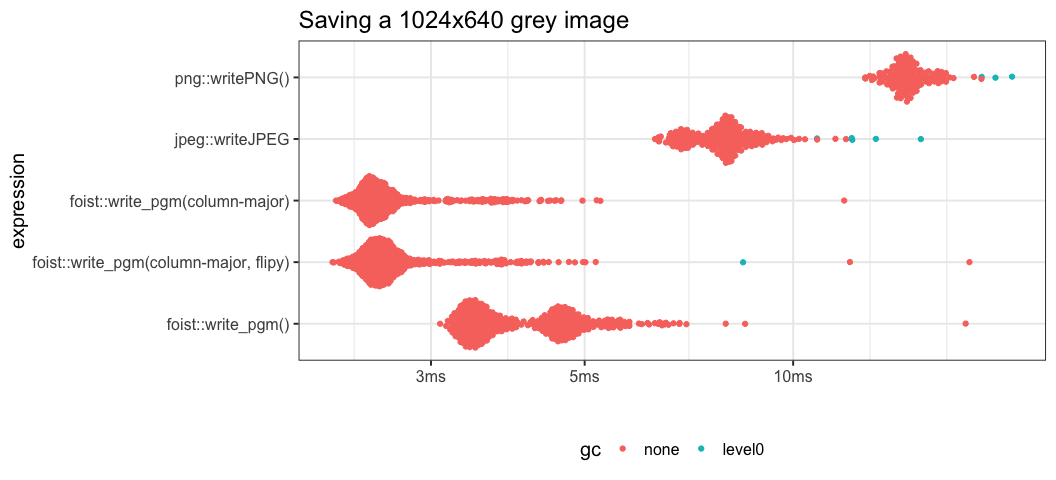
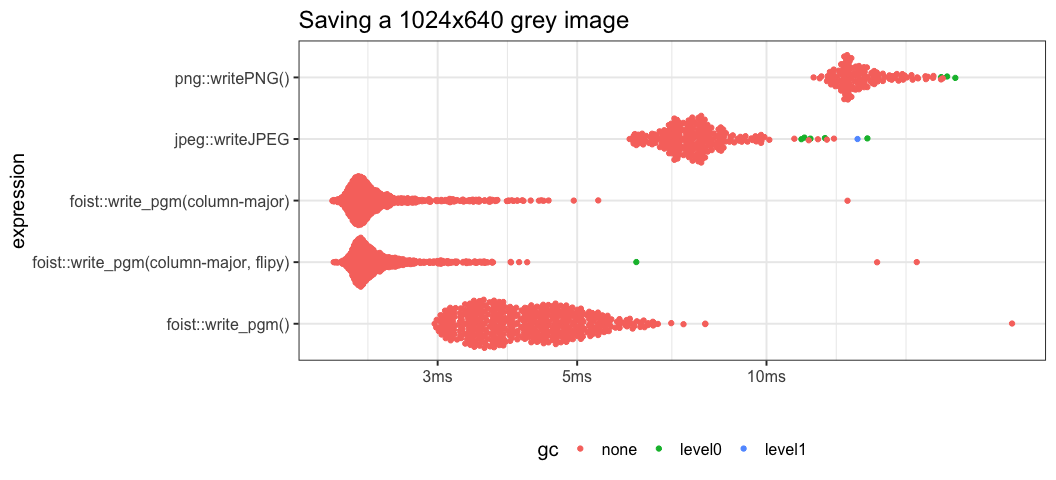
fix example image

diff --git a/README.md b/README.md
@@ -165,12 +165,12 @@ foist::write_pal_ppm(dbl_mat, pal = foist::vir$cividis, "man/figures/col-7.ppm")
 
 <div>
 
-<img src = "man/figures/col-convert-0.png" width = "30%" title = "grey">
-<img src = "man/figures/col-convert-3.png" width = "30%" title = "magma">
-<img src = "man/figures/col-convert-4.png" width = "30%" title = "inferno">
-<img src = "man/figures/col-convert-5.png" width = "30%" title = "plasma">
-<img src = "man/figures/col-convert-6.png" width = "30%" title = "viridis">
-<img src = "man/figures/col-convert-7.png" width = "30%" title = "cividis">
+<img src = "man/figures/col-convert-0-n.png" width = "30%" title = "grey">
+<img src = "man/figures/col-convert-3.png"   width = "30%" title = "magma">
+<img src = "man/figures/col-convert-4.png"   width = "30%" title = "inferno">
+<img src = "man/figures/col-convert-5.png"   width = "30%" title = "plasma">
+<img src = "man/figures/col-convert-6.png"   width = "30%" title = "viridis">
+<img src = "man/figures/col-convert-7.png"   width = "30%" title = "cividis">
 
 </div>
 
@@ -203,11 +203,11 @@ res <- bench::mark(
 
 | expression                             |     min |    mean |  median | itr/sec | mem\_alloc |
 | :------------------------------------- | ------: | ------: | ------: | ------: | ---------: |
-| foist::write\_pgm()                    |  3.09ms |  4.21ms |  3.92ms |     237 |     2.49KB |
-| foist::write\_pgm(column-major)        |  2.19ms |  2.66ms |   2.5ms |     376 |     2.49KB |
-| foist::write\_pgm(column-major, flipy) |  2.16ms |  2.72ms |  2.55ms |     368 |     2.49KB |
-| png::writePNG()                        | 12.71ms | 14.72ms | 14.62ms |      68 |   673.21KB |
-| jpeg::writeJPEG                        |  6.32ms |  7.94ms |  7.96ms |     126 |   663.55KB |
+| foist::write\_pgm()                    |  2.97ms |  4.29ms |  4.11ms |     233 |     2.49KB |
+| foist::write\_pgm(column-major)        |  2.04ms |  2.45ms |   2.3ms |     408 |     2.49KB |
+| foist::write\_pgm(column-major, flipy) |  2.05ms |  2.46ms |  2.32ms |     407 |     2.49KB |
+| png::writePNG()                        | 11.88ms | 14.27ms | 13.78ms |      70 |   673.21KB |
+| jpeg::writeJPEG                        |  6.06ms |  7.74ms |  7.62ms |     129 |   663.55KB |
 
 Benchmark results
 
@@ -242,11 +242,11 @@ res <- bench::mark(
 
 | expression                             |     min |    mean |  median | itr/sec | mem\_alloc |
 | :------------------------------------- | ------: | ------: | ------: | ------: | ---------: |
-| foist::write\_ppm()                    | 19.21ms | 22.09ms | 22.21ms |      45 |     2.49KB |
-| foist::write\_ppm(column-major)        |  4.79ms |  6.29ms |  5.91ms |     159 |     2.49KB |
-| foist::write\_ppm(column-major, flipy) |     5ms |  6.33ms |  5.91ms |     158 |     2.49KB |
-| png::writePNG()                        | 46.91ms | 49.46ms | 49.19ms |      20 |     1.88MB |
-| jpeg::writeJPEG                        | 26.99ms | 29.36ms | 29.38ms |      34 |     1.88MB |
+| foist::write\_ppm()                    | 18.19ms | 21.48ms | 21.45ms |      47 |     2.49KB |
+| foist::write\_ppm(column-major)        |  4.67ms |   5.9ms |  5.59ms |     170 |     2.49KB |
+| foist::write\_ppm(column-major, flipy) |  4.66ms |  5.97ms |   5.6ms |     168 |     2.49KB |
+| png::writePNG()                        | 44.73ms | 48.52ms | 48.69ms |      21 |     1.88MB |
+| jpeg::writeJPEG                        | 26.04ms |  28.1ms |  28.1ms |      36 |     1.88MB |
 
 Benchmark results
 
